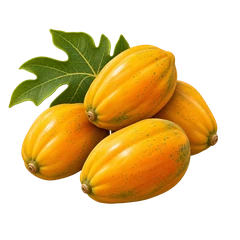
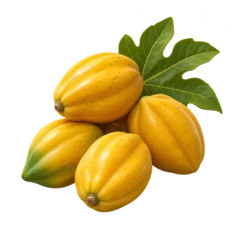
ChatGPT images: R-02, R-11, R-12, R-13, R-14, R-15, R-16

diff --git a/ai-studio/chatgpt-images/TASKS.md b/ai-studio/chatgpt-images/TASKS.md
@@ -44,7 +44,7 @@ Statuses: `todo` → `generated` (ChatGPT, file is in `out/`) → `accepted` or 
 | P-W | Region map with five stops, Wonosobo | `docs/revisi-10-analitik/38_PROMPT_PETA_LIMA_TANTANGAN_DAN_SKENARIO.md` → *P-W · Peta wilayah Wonosobo (lima tantangan)* | `map.region.wonosobo.webp` | 1400 × 900 | style + layout mock-up `docs/revisi-10-analitik/gambar/38/mockup-peta-wonosobo-5-tantangan.webp` + old map `ai-studio/game-images/assets/peta/map.region.wonosobo.webp` | replaces `ai-studio/game-images/assets/peta/map.region.wonosobo.webp`; stops then measured into `CatalogImporter::MAP_STOPS` | generated | 2026-11-15 |
 | K-S | Challenge card, Skenario Digital | `docs/revisi-10-analitik/38_PROMPT_PETA_LIMA_TANTANGAN_DAN_SKENARIO.md` → *K-S · Kartu tantangan Skenario Digital* | `node-card-skenario.webp` | 640 × 360 (generate at 1280 × 720, scale down) | style + the four cards `public/assets/ui/node-card-{puzzle,rumpang,boleh,cari}.webp` | replaces `public/assets/ui/node-card-skenario.webp` | generated | 2026-11-15 |
 | R-01 | Region background, Temanggung (review no. 213) | `docs/revisi-10-analitik/39_PROMPT_GAMBAR_PERBAIKAN_TELAAH.md` → *R-01 · Latar wilayah Temanggung* | `bg.temanggung.region.webp` | 1920 × 1080 | style + `ai-studio/game-images/assets/latar/bg.magelang.region.webp` (mood and composition only) | replaces `ai-studio/game-images/assets/latar/bg.temanggung.region.webp` | installed | Owner, 15 Nov 2026: fix. The file there now is an interim picture of the Kedu plain. 2026-11-16 — Generated by ChatGPT; accepted by the owner and installed by a Claude session the same day. |
-| R-02 | Cari Objek object: carica fruit (review no. 271) | `docs/revisi-10-analitik/39_PROMPT_GAMBAR_PERBAIKAN_TELAAH.md` → *R-02 · Buah carica (benda Cari Objek Wonosobo)* | `challenge.item.wnb-4-a02.webp` | 240 × 240, transparent (generate at 1024 × 1024, scale down) | `ai-studio/game-images/assets/tantangan/challenge.item.wnb-1-f01.webp` (carica on its tree) + `ai-studio/game-images/assets/tantangan/challenge.item.wnb-4-a05.webp` (ordinary papaya: same finish, must look different); photos `ai-studio/chatgpt-images/inbox/reference-carica-whole-pile-13.webp` and `ai-studio/chatgpt-images/inbox/reference-carica-on-tree-11.jpg` (shape and colour; sent 16 Nov 2026) | replaces `ai-studio/game-images/assets/tantangan/challenge.item.wnb-4-a02.webp` | redo: no ribs, orange and smooth like the papaya decoy (wnb-4-a05); follow the attached carica photos: pale golden-yellow, five clear rounded ribs, pointed tip | Owner, 15 Nov 2026: fix. The old picture shows star fruit. 2026-11-16 — Generated by ChatGPT; owner: redo (checked by a Claude session against the prompt). |
+| R-02 | Cari Objek object: carica fruit (review no. 271) | `docs/revisi-10-analitik/39_PROMPT_GAMBAR_PERBAIKAN_TELAAH.md` → *R-02 · Buah carica (benda Cari Objek Wonosobo)* | `challenge.item.wnb-4-a02.webp` | 240 × 240, transparent (generate at 1024 × 1024, scale down) | `ai-studio/game-images/assets/tantangan/challenge.item.wnb-1-f01.webp` (carica on its tree) + `ai-studio/game-images/assets/tantangan/challenge.item.wnb-4-a05.webp` (ordinary papaya: same finish, must look different); photos `ai-studio/chatgpt-images/inbox/reference-carica-whole-pile-13.webp` and `ai-studio/chatgpt-images/inbox/reference-carica-on-tree-11.jpg` (shape and colour; sent 16 Nov 2026) | replaces `ai-studio/game-images/assets/tantangan/challenge.item.wnb-4-a02.webp` | generated | Owner, 15 Nov 2026: fix. The old picture shows star fruit. 2026-11-16 — Generated by ChatGPT; owner: redo (checked by a Claude session against the prompt). 2026-11-16 — Generated ulang; empat carica berusuk membulat, kuning keemasan, latar transparan. |
 | R-03 | Pustaka: Tips Jaka, Magelang (review no. 302) | `docs/revisi-10-analitik/39_PROMPT_GAMBAR_PERBAIKAN_TELAAH.md` → *R-03 · Tips Jaka, Magelang* | `library.magelang.p10.1.webp` | 960 × 640 | `ai-studio/game-images/assets/referensi/reference.01.webp` + `public/assets/ui/jaka-wave.webp` (Jaka) + `public/assets/ui/round-eye.webp` (carved-gold medallion) | replaces `ai-studio/game-images/assets/pustaka/library.magelang.p10.1.webp` | installed | Owner, 15 Nov 2026: fix. This picture shows Jaka on purpose. 2026-11-16 — Generated by ChatGPT; accepted by the owner and installed by a Claude session the same day. |
 | R-04 | Pustaka: Tips Jaka, Temanggung (review no. 321) | `docs/revisi-10-analitik/39_PROMPT_GAMBAR_PERBAIKAN_TELAAH.md` → *R-04 · Tips Jaka, Temanggung* | `library.temanggung.p10.1.webp` | 960 × 640 | as R-03 | replaces `ai-studio/game-images/assets/pustaka/library.temanggung.p10.1.webp` | installed | Owner, 15 Nov 2026: fix. This picture shows Jaka on purpose. 2026-11-16 — Generated by ChatGPT; accepted by the owner and installed by a Claude session the same day. |
 | R-05 | Pustaka: Tips Jaka, Wonosobo (review no. 341) | `docs/revisi-10-analitik/39_PROMPT_GAMBAR_PERBAIKAN_TELAAH.md` → *R-05 · Tips Jaka, Wonosobo* | `library.wonosobo.p10.1.webp` | 960 × 640 | as R-03 | replaces `ai-studio/game-images/assets/pustaka/library.wonosobo.p10.1.webp` | installed | Owner, 15 Nov 2026: fix. This picture shows Jaka on purpose. 2026-11-16 — Generated by ChatGPT; accepted by the owner and installed by a Claude session the same day. |
@@ -53,9 +53,9 @@ Statuses: `todo` → `generated` (ChatGPT, file is in `out/`) → `accepted` or 
 | R-08 | Test picture, edit: Tari Gantar video post (review no. 383) | `docs/revisi-10-analitik/39_PROMPT_GAMBAR_PERBAIKAN_TELAAH.md` → *R-08 · `instr.tes-bd-A-G2` (unggahan video Tari Gantar)* | `instr.tes-bd-A-G2.webp` | 1536 × 1024 | `ai-studio/game-images/mockup/gambar-mockup/instrumen/aset/instr.tes-bd-A-G2.webp` (the picture to edit) | replaces `ai-studio/game-images/mockup/gambar-mockup/instrumen/aset/instr.tes-bd-A-G2.webp` and its PNG master | installed | Owner, 15 Nov 2026: fix. Edit: emoji and the size of the video credit. 2026-11-16 — Generated by ChatGPT; accepted by the owner and installed by a Claude session the same day. |
 | R-09 | Test picture, edit: besurek cloth post (review no. 384) | `docs/revisi-10-analitik/39_PROMPT_GAMBAR_PERBAIKAN_TELAAH.md` → *R-09 · `instr.tes-bd-B-G1` (unggahan kain besurek)* | `instr.tes-bd-B-G1.webp` | 1536 × 1024 | `ai-studio/game-images/mockup/gambar-mockup/instrumen/aset/instr.tes-bd-B-G1.webp` (the picture to edit) + `ai-studio/game-images/mockup/gambar-mockup/instrumen/aset/instr.tes-bd-A-G1.webp` | replaces `ai-studio/game-images/mockup/gambar-mockup/instrumen/aset/instr.tes-bd-B-G1.webp` and its PNG master | installed | Owner, 15 Nov 2026: fix. Edit: buttons alike, cloth motif not readable as writing, avatars with initials. Someone who reads Arabic checks the result before it is accepted. Owner, 16 Nov 2026: accepted by the researcher, who also did the Arabic check. 2026-11-16 — Generated by ChatGPT; accepted by the owner and installed by a Claude session the same day. |
 | R-10 | Test picture, edit: kaghati kite notice (review no. 387) | `docs/revisi-10-analitik/39_PROMPT_GAMBAR_PERBAIKAN_TELAAH.md` → *R-10 · `instr.tes-mb-A-M4` (pesan terusan dan pengumuman lomba kaghati)* | `instr.tes-mb-A-M4.webp` | 1024 × 1536 | `ai-studio/game-images/mockup/gambar-mockup/instrumen/aset/instr.tes-mb-A-M4.webp` (the picture to edit) | replaces `ai-studio/game-images/mockup/gambar-mockup/instrumen/aset/instr.tes-mb-A-M4.webp` and its PNG master | installed | Owner, 15 Nov 2026: fix. Edit of the attached picture, one account name. 2026-11-16 — Generated by ChatGPT; accepted by the owner and installed by a Claude session the same day. |
-| R-11 | Test picture, edit: Tari Maengket video post (review no. 385) | `docs/revisi-10-analitik/39_PROMPT_GAMBAR_PERBAIKAN_TELAAH.md` → *R-11 · `instr.tes-bd-B-G2` (unggahan video Tari Maengket), menunggu persetujuan pengembang* | `instr.tes-bd-B-G2.webp` | 1536 × 1024 | `ai-studio/game-images/mockup/gambar-mockup/instrumen/aset/instr.tes-bd-B-G2.webp` (the picture to edit) + `ai-studio/game-images/mockup/gambar-mockup/instrumen/aset/instr.tes-bd-A-G2.webp` (the installed result of R-08: copy its credit strip and size) | replaces `ai-studio/game-images/mockup/gambar-mockup/instrumen/aset/instr.tes-bd-B-G2.webp` and its PNG master | todo | Not marked by the owner. Twin of R-08 in form B: the same small video credit. Added so forms A and B stay alike. Owner, 16 Nov 2026: yes, make it. |
-| R-12 | Pustaka: the Buddha inside Candi Mendut (review no. 293) | `docs/revisi-10-analitik/39_PROMPT_GAMBAR_PERBAIKAN_TELAAH.md` → *R-12 · Arca Buddha di dalam Candi Mendut (Pustaka Magelang)* | `library.magelang.p5.2.webp` | 960 × 640 | style (`ai-studio/game-images/assets/referensi/reference.06.webp`) + licensed photos `ai-studio/chatgpt-images/inbox/reference-Mendut-Buddha-04.jpg` and `ai-studio/chatgpt-images/inbox/reference-Mendut-interior-Buddha-and-bodhisattvas-01.jpg` (forms only) | replaces `ai-studio/game-images/assets/pustaka/library.magelang.p5.2.webp` | todo | Owner, 16 Nov 2026: reference photos sent, licence obtained by the researcher (`inbox/reference-sources-2026-11-15.json`). The old picture shows the Buddha cross-legged; the real one sits with both feet down. |
-| R-13 | Cari Objek post photo: fried uceng (Temanggung, round 2, variant b) | `docs/revisi-10-analitik/39_PROMPT_GAMBAR_PERBAIKAN_TELAAH.md` → *R-13 · Foto unggahan uceng goreng (Cari Objek Temanggung, babak 2, variasi b)* | `challenge.post.tmg-4-b.webp` | 1280 × 720 | style (`ai-studio/game-images/assets/referensi/reference.06.webp`) + `ai-studio/game-images/assets/tantangan/challenge.item.tmg-1-h01.webp` (the plate of fried uceng in its lower left corner) | new picture: `ai-studio/game-images/assets/tantangan/challenge.post.tmg-4-b.webp` plus a new `data.json` entry | todo | Owner, 16 Nov 2026: a new picture, not a crop of the puzzle picture. The lower left of the photo is covered by the game's credit strip. |
-| R-14 | Pustaka: map of the Dieng Plateau area (review no. 325) | `docs/revisi-10-analitik/39_PROMPT_GAMBAR_PERBAIKAN_TELAAH.md` → *R-14 · Peta kawasan Dataran Tinggi Dieng (Pustaka Wonosobo)* | `library.wonosobo.p2.2.webp` | 960 × 640 | style (`ai-studio/game-images/assets/referensi/reference.06.webp`) + licensed maps `ai-studio/chatgpt-images/inbox/reference-Dieng-route-map-Wonosobo-tourism-office-08.jpg` (positions) and `ai-studio/chatgpt-images/inbox/reference-Dieng-map-dieng-net-05.jpg` (relief-map look) | replaces `ai-studio/game-images/assets/pustaka/library.wonosobo.p2.2.webp`; the `data.json` caption becomes "Peta kawasan Dataran Tinggi Dieng" | todo | Owner, 16 Nov 2026: maps sent, licence obtained by the researcher. The only game picture with text: exactly the place names of the prompt's *All text*, read word by word. |
-| R-15 | Pustaka: carica on the tree and cut open (review no. 339) | `docs/revisi-10-analitik/39_PROMPT_GAMBAR_PERBAIKAN_TELAAH.md` → *R-15 · Buah carica di pohon dan dibelah (Pustaka Wonosobo)* | `library.wonosobo.p9.2.webp` | 960 × 640 | style (`ai-studio/game-images/assets/referensi/reference.06.webp`) + photos `ai-studio/chatgpt-images/inbox/reference-carica-on-tree-11.jpg`, `ai-studio/chatgpt-images/inbox/reference-carica-cut-halves-10.jpg`, `ai-studio/chatgpt-images/inbox/reference-carica-whole-and-cut-12.jpg` | replaces `ai-studio/game-images/assets/pustaka/library.wonosobo.p9.2.webp` | todo | Owner, 16 Nov 2026: carica photos sent. The old cut fruit has thick orange flesh and big black seeds like papaya; carica has thin cream flesh and a white pulp with many small seeds. |
-| R-16 | Pustaka: Situs Liyangan (review no. 312) | `docs/revisi-10-analitik/39_PROMPT_GAMBAR_PERBAIKAN_TELAAH.md` → *R-16 · Situs Liyangan (Pustaka Temanggung)* | `library.temanggung.p5.1.webp` | 960 × 640 | style (`ai-studio/game-images/assets/referensi/reference.06.webp`) + photos `ai-studio/chatgpt-images/inbox/reference-Liyangan-terrace-wall-and-road-02.jpg` (walls and stone road), `ai-studio/chatgpt-images/inbox/reference-Liyangan-small-shrine-04.jpg` (the small shrine), `ai-studio/chatgpt-images/inbox/reference-Liyangan-sign-and-Sindoro-05.jpg` (the mountain; do not draw the sign) | replaces `ai-studio/game-images/assets/pustaka/library.temanggung.p5.1.webp`; the `data.json` caption becomes "Situs Liyangan di lereng Gunung Sindoro" | todo | Owner, 16 Nov 2026: Liyangan photos from the researcher (licensed). The old picture shows tall temple towers like Prambanan; Liyangan is an excavated village with walled terraces. |
+| R-11 | Test picture, edit: Tari Maengket video post (review no. 385) | `docs/revisi-10-analitik/39_PROMPT_GAMBAR_PERBAIKAN_TELAAH.md` → *R-11 · `instr.tes-bd-B-G2` (unggahan video Tari Maengket), menunggu persetujuan pengembang* | `instr.tes-bd-B-G2.webp` | 1536 × 1024 | `ai-studio/game-images/mockup/gambar-mockup/instrumen/aset/instr.tes-bd-B-G2.webp` (the picture to edit) + `ai-studio/game-images/mockup/gambar-mockup/instrumen/aset/instr.tes-bd-A-G2.webp` (the installed result of R-08: copy its credit strip and size) | replaces `ai-studio/game-images/mockup/gambar-mockup/instrumen/aset/instr.tes-bd-B-G2.webp` and its PNG master | generated | Not marked by the owner. Twin of R-08 in form B: the same small video credit. Added so forms A and B stay alike. Owner, 16 Nov 2026: yes, make it. 2026-11-16 — Kredit video diperbesar; seluruh teks dicocokkan dengan All text. |
+| R-12 | Pustaka: the Buddha inside Candi Mendut (review no. 293) | `docs/revisi-10-analitik/39_PROMPT_GAMBAR_PERBAIKAN_TELAAH.md` → *R-12 · Arca Buddha di dalam Candi Mendut (Pustaka Magelang)* | `library.magelang.p5.2.webp` | 960 × 640 | style (`ai-studio/game-images/assets/referensi/reference.06.webp`) + licensed photos `ai-studio/chatgpt-images/inbox/reference-Mendut-Buddha-04.jpg` and `ai-studio/chatgpt-images/inbox/reference-Mendut-interior-Buddha-and-bodhisattvas-01.jpg` (forms only) | replaces `ai-studio/game-images/assets/pustaka/library.magelang.p5.2.webp` | generated | Owner, 16 Nov 2026: reference photos sent, licence obtained by the researcher (`inbox/reference-sources-2026-11-15.json`). The old picture shows the Buddha cross-legged; the real one sits with both feet down. 2026-11-16 — Generated; tiga arca duduk, kedua kaki Buddha di alas teratai. |
+| R-13 | Cari Objek post photo: fried uceng (Temanggung, round 2, variant b) | `docs/revisi-10-analitik/39_PROMPT_GAMBAR_PERBAIKAN_TELAAH.md` → *R-13 · Foto unggahan uceng goreng (Cari Objek Temanggung, babak 2, variasi b)* | `challenge.post.tmg-4-b.webp` | 1280 × 720 | style (`ai-studio/game-images/assets/referensi/reference.06.webp`) + `ai-studio/game-images/assets/tantangan/challenge.item.tmg-1-h01.webp` (the plate of fried uceng in its lower left corner) | new picture: `ai-studio/game-images/assets/tantangan/challenge.post.tmg-4-b.webp` plus a new `data.json` entry | generated | Owner, 16 Nov 2026: a new picture, not a crop of the puzzle picture. The lower left of the photo is covered by the game's credit strip. 2026-11-16 — Generated; uceng kecil ramping, area kredit kiri bawah berupa meja kosong. |
+| R-14 | Pustaka: map of the Dieng Plateau area (review no. 325) | `docs/revisi-10-analitik/39_PROMPT_GAMBAR_PERBAIKAN_TELAAH.md` → *R-14 · Peta kawasan Dataran Tinggi Dieng (Pustaka Wonosobo)* | `library.wonosobo.p2.2.webp` | 960 × 640 | style (`ai-studio/game-images/assets/referensi/reference.06.webp`) + licensed maps `ai-studio/chatgpt-images/inbox/reference-Dieng-route-map-Wonosobo-tourism-office-08.jpg` (positions) and `ai-studio/chatgpt-images/inbox/reference-Dieng-map-dieng-net-05.jpg` (relief-map look) | replaces `ai-studio/game-images/assets/pustaka/library.wonosobo.p2.2.webp`; the `data.json` caption becomes "Peta kawasan Dataran Tinggi Dieng" | generated | Owner, 16 Nov 2026: maps sent, licence obtained by the researcher. The only game picture with text: exactly the place names of the prompt's *All text*, read word by word. 2026-11-16 — Generated; seluruh label cocok dengan All text, batas dan letak diperiksa terhadap peta -08. |
+| R-15 | Pustaka: carica on the tree and cut open (review no. 339) | `docs/revisi-10-analitik/39_PROMPT_GAMBAR_PERBAIKAN_TELAAH.md` → *R-15 · Buah carica di pohon dan dibelah (Pustaka Wonosobo)* | `library.wonosobo.p9.2.webp` | 960 × 640 | style (`ai-studio/game-images/assets/referensi/reference.06.webp`) + photos `ai-studio/chatgpt-images/inbox/reference-carica-on-tree-11.jpg`, `ai-studio/chatgpt-images/inbox/reference-carica-cut-halves-10.jpg`, `ai-studio/chatgpt-images/inbox/reference-carica-whole-and-cut-12.jpg` | replaces `ai-studio/game-images/assets/pustaka/library.wonosobo.p9.2.webp` | generated | Owner, 16 Nov 2026: carica photos sent. The old cut fruit has thick orange flesh and big black seeds like papaya; carica has thin cream flesh and a white pulp with many small seeds. 2026-11-16 — Generated; daging tipis krem, isi putih dan banyak biji kecil, tajuk utuh. |
+| R-16 | Pustaka: Situs Liyangan (review no. 312) | `docs/revisi-10-analitik/39_PROMPT_GAMBAR_PERBAIKAN_TELAAH.md` → *R-16 · Situs Liyangan (Pustaka Temanggung)* | `library.temanggung.p5.1.webp` | 960 × 640 | style (`ai-studio/game-images/assets/referensi/reference.06.webp`) + photos `ai-studio/chatgpt-images/inbox/reference-Liyangan-terrace-wall-and-road-02.jpg` (walls and stone road), `ai-studio/chatgpt-images/inbox/reference-Liyangan-small-shrine-04.jpg` (the small shrine), `ai-studio/chatgpt-images/inbox/reference-Liyangan-sign-and-Sindoro-05.jpg` (the mountain; do not draw the sign) | replaces `ai-studio/game-images/assets/pustaka/library.temanggung.p5.1.webp`; the `data.json` caption becomes "Situs Liyangan di lereng Gunung Sindoro" | generated | Owner, 16 Nov 2026: Liyangan photos from the researcher (licensed). The old picture shows tall temple towers like Prambanan; Liyangan is an excavated village with walled terraces. 2026-11-16 — Generated; teras bertalud polos, jalan batu, candi kecil, yoni dan satu kerucut Sindoro. |
